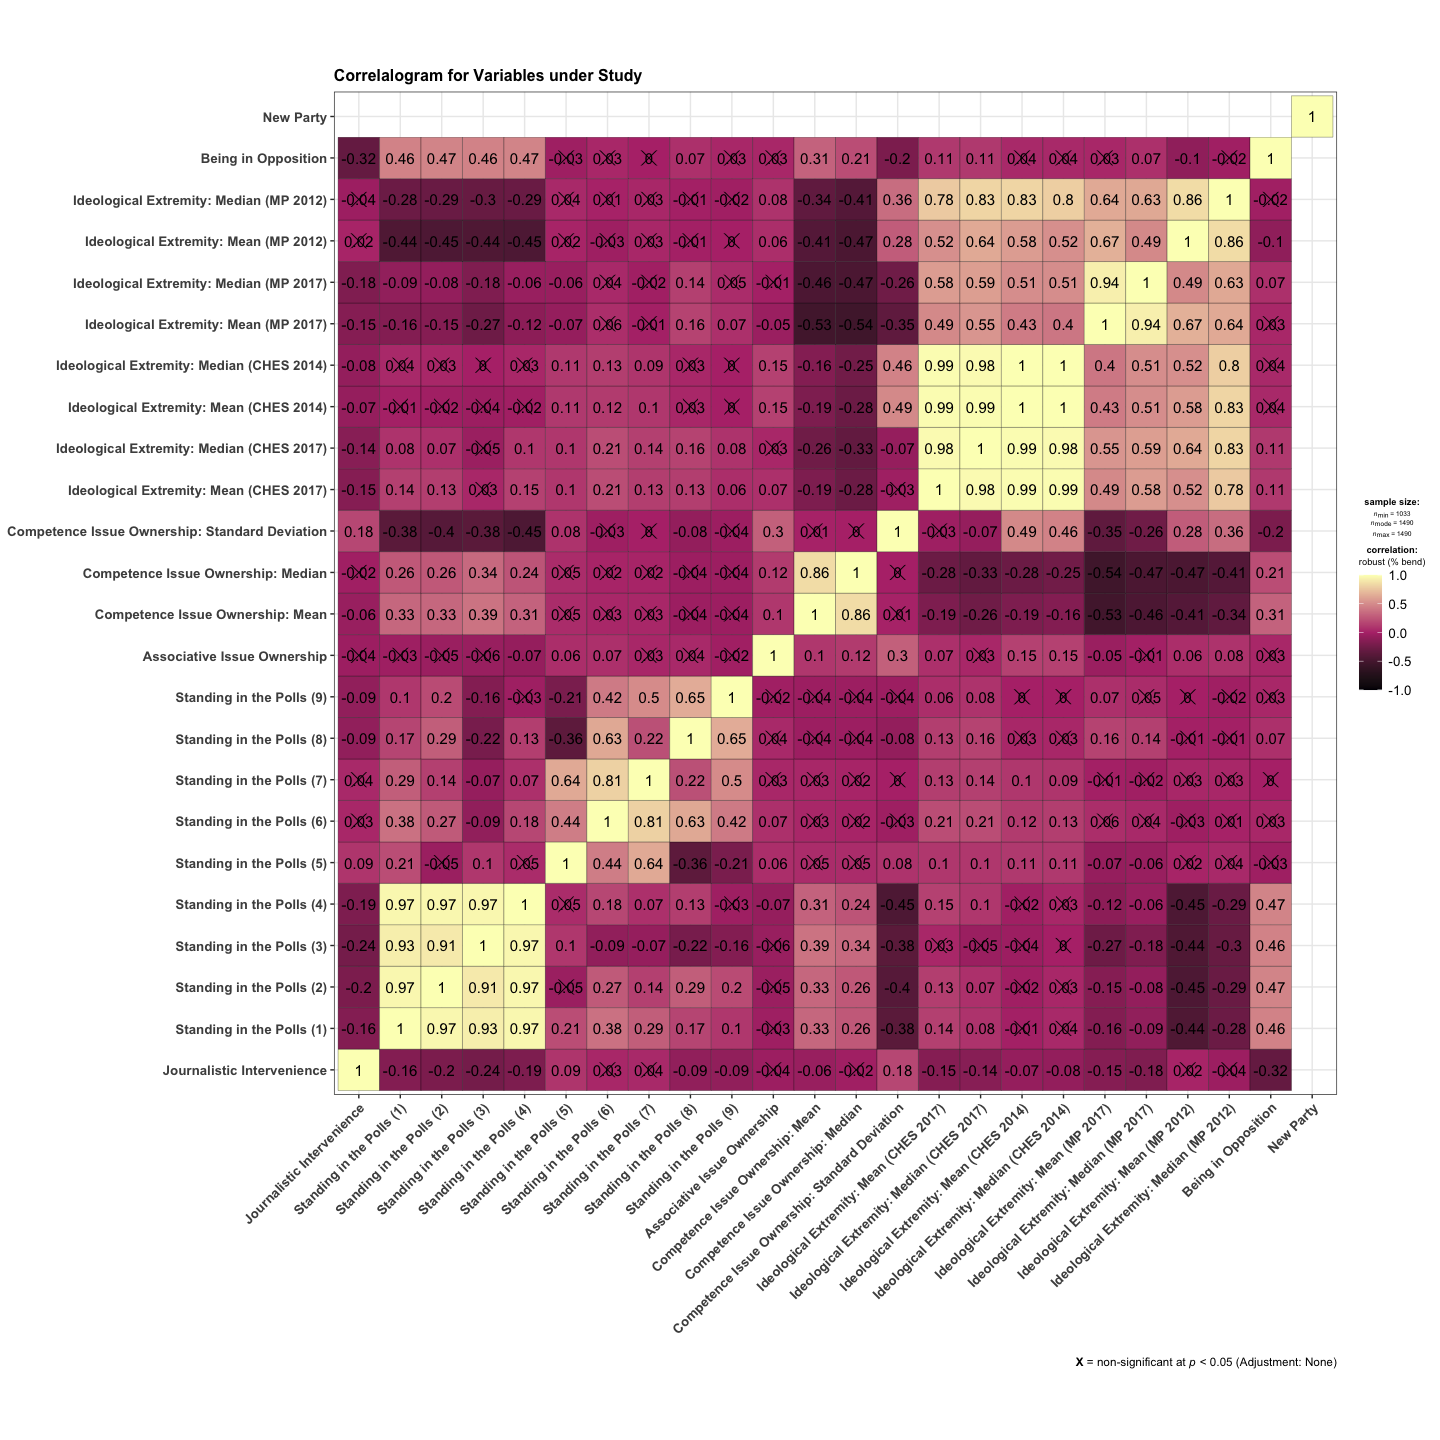
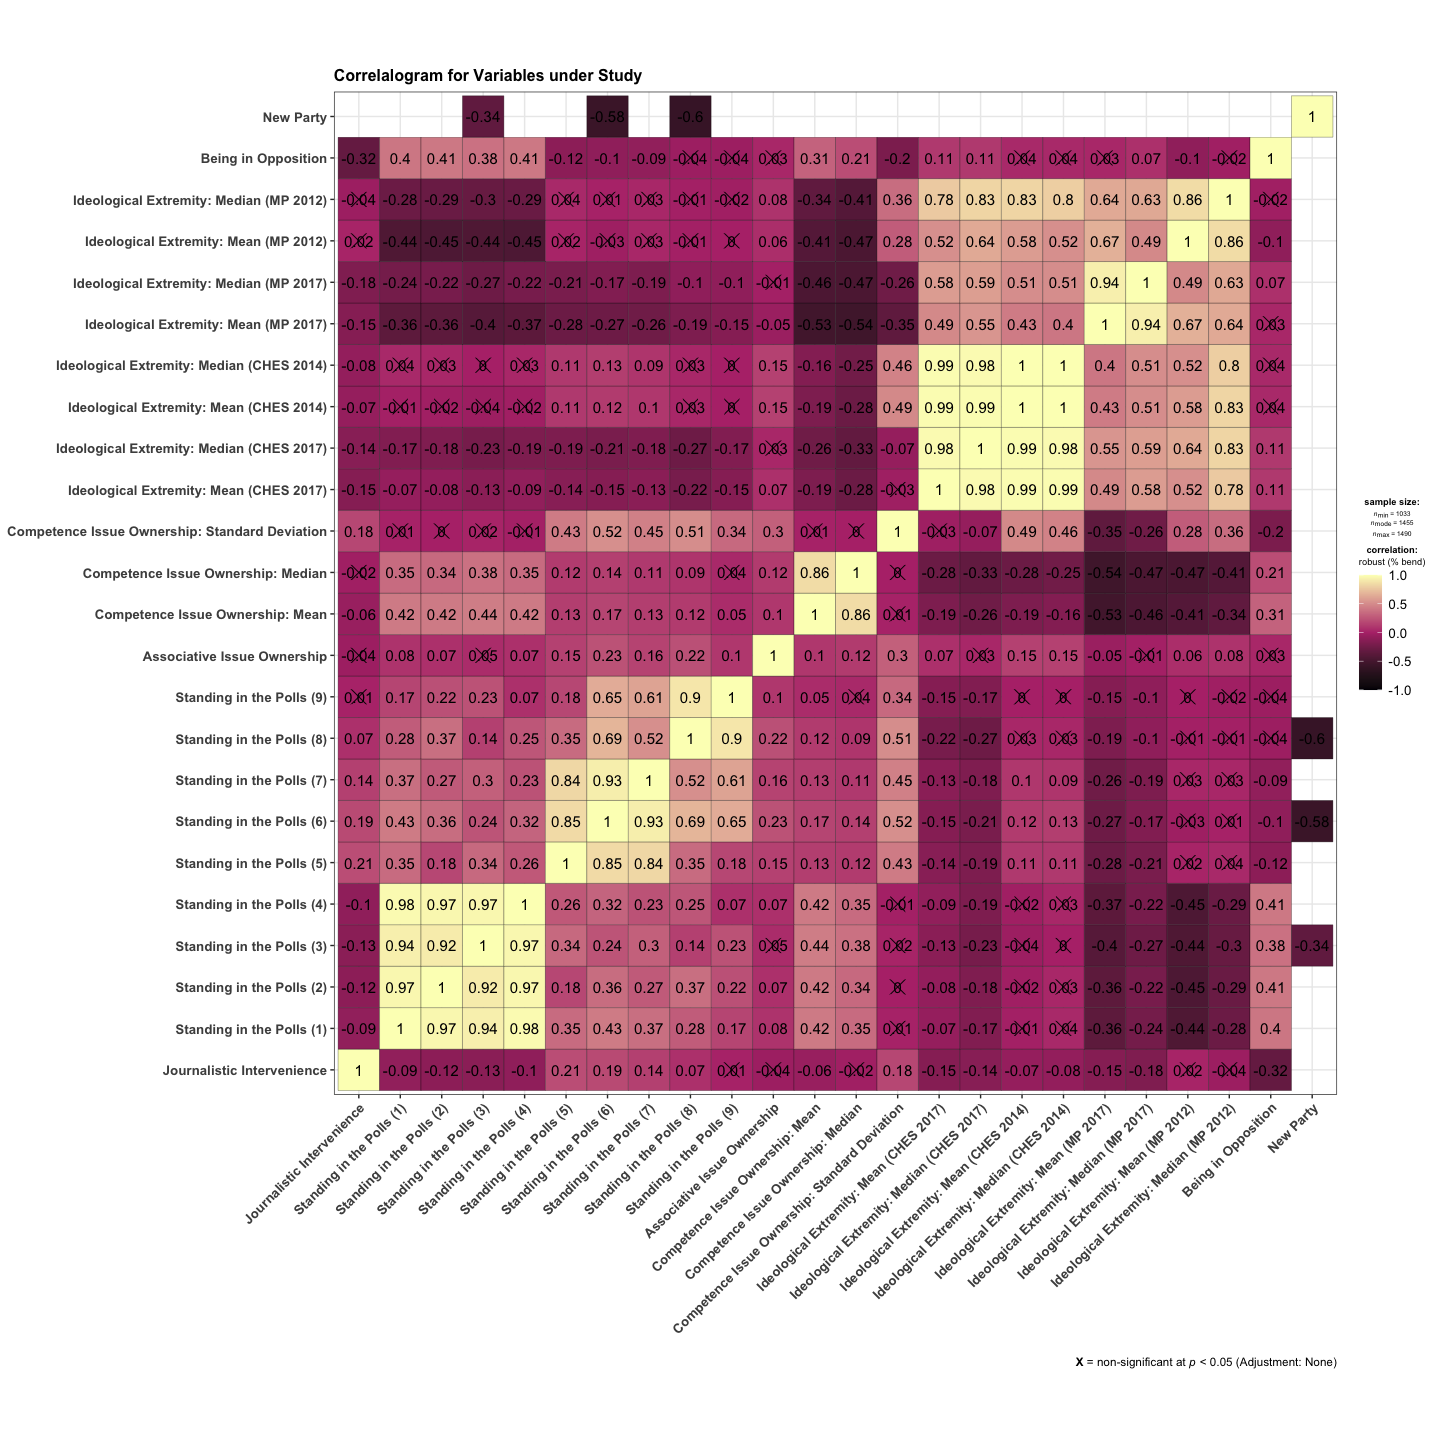
add data viz

diff --git a/src/data-processing/prep_data.md b/src/data-processing/prep_data.md
@@ -247,15 +247,24 @@ polls <- polls %>%
 
 d <- left_join(d, polls, by = "id") %>%
   mutate(seats = ifelse(party=="FvD", 0, seats),
-         poll_standing1 = round(polls/seats,2),
-         poll_standing2 = round(l_polls1/seats,2),
-         poll_standing3 = round(l_polls7/seats,2),
-         poll_standing4 = round(l_polls_mean/seats,2),
-         poll_standing5 = round(polls/l_polls1, 2),
-         poll_standing6 = round(polls/l_polls7, 2),
-         poll_standing7 = round(polls/l_polls_mean, 2),
-         poll_standing8 = round(l_polls1/l_polls7, 2),
-         poll_standing9 = round(l_polls1/l_polls_mean, 2))
+         polls = ifelse(party=="FvD" & date=="2017-02-15", 0,
+                 ifelse(party=="FvD" & date=="2017-02-16", 0, polls)),
+         poll_standing1 = ifelse(party=="FvD", polls, round(polls/seats,2)),
+         poll_standing2 = ifelse(party=="FvD", polls,round(l_polls1/seats,2)),
+         poll_standing3 = ifelse(party=="FvD", polls,
+                                 round(l_polls7/seats,2)),
+         poll_standing4 = ifelse(party=="FvD", polls,
+                                 round(l_polls_mean/seats,2)),
+         poll_standing5 = ifelse(party=="FvD", polls, 
+                                 round(polls/l_polls1, 2)),
+         poll_standing6 = ifelse(party=="FvD", polls, 
+                                 round(polls/l_polls7, 2)),
+         poll_standing7 = ifelse(party=="FvD", polls,  
+                                 round(polls/l_polls_mean, 2)),
+         poll_standing8 = ifelse(party=="FvD", polls, 
+                                 round(l_polls1/l_polls7, 2)),
+         poll_standing9 = ifelse(party=="FvD", polls,
+                                 round(l_polls1/l_polls_mean, 2)))
 
 rm(polls)
 ```
